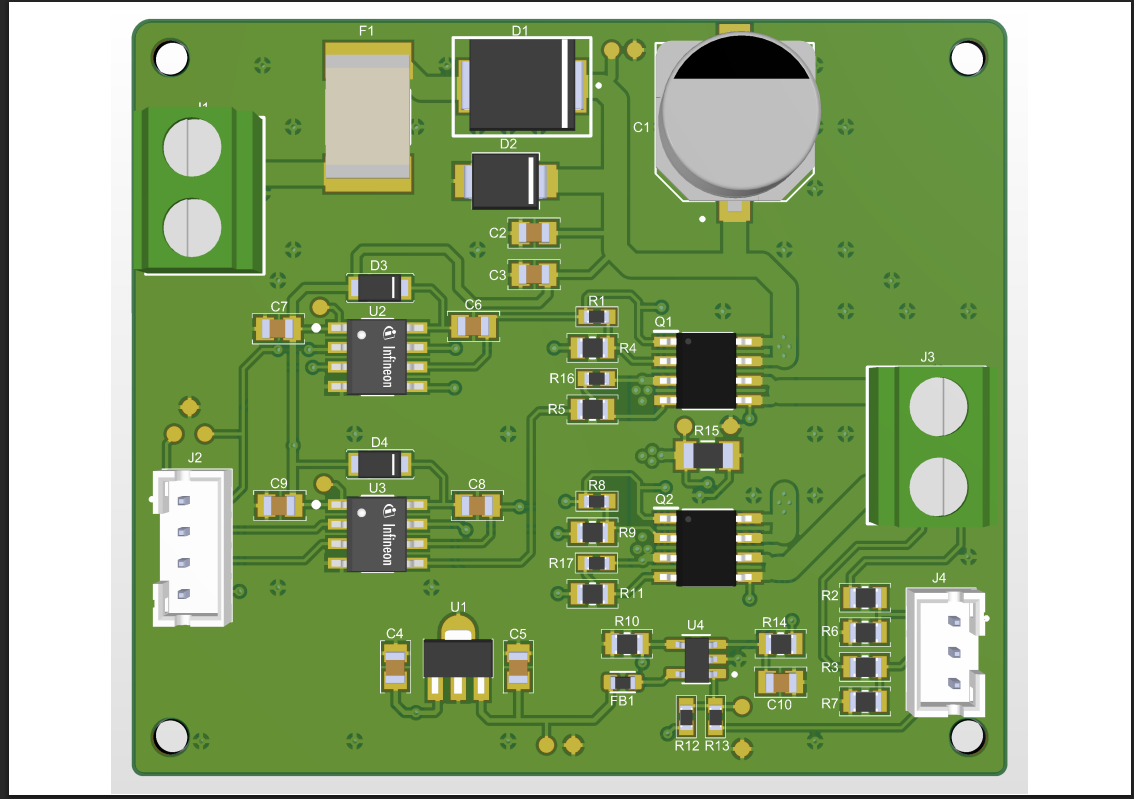
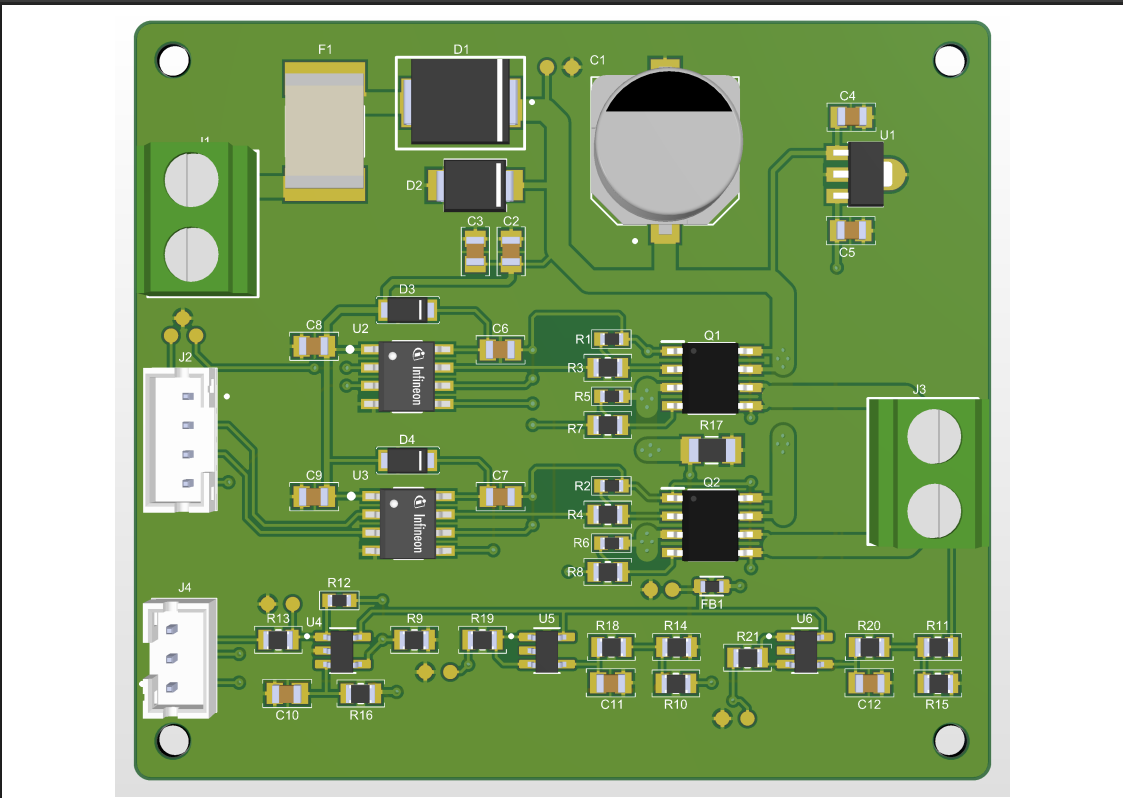
Revision
Motor control board revision

diff --git a/readme.md b/readme.md
@@ -2,7 +2,7 @@
 
 Bu sunum, **STM32F103C8T6 tabanlı otomatik tavuk kümesi kapısı kontrol sistemi** için hazırlanmış donanım tasarım dosyalarını içerir.
 
-Sistem; Li-ion pil paketi ile beslenen ana kontrol kartı ve bu karta bağlı ayrı bir motor kontrol kartından oluşur. Ana kontrol kartı; kapı konumunu limit switch ile takip eder, IR sensör ile varlık algılar, TFT ekran, panel LED'leri ve panel butonları üzerinden kullanıcı arayüzünü yönetir. Motor kontrol kartı ise ana karttan gelen PWM/yön kontrol sinyalleriyle 12 V DC motoru sürer ve motor akım/gerilim geri bildirimlerini ana karta gönderir.
+Sistem; Li-ion pil paketi ile beslenen ana kontrol kartı ve fırçalı DC motoru süren motor kontrol kartından oluşur. Ana kontrol kartı; kapı konumunu limit switch ile takip eder, IR sensör ile varlık algılar, TFT ekran, panel LED'leri ve panel butonları üzerinden kullanıcı arayüzünü yönetir. Motor kontrol kartı ise ana karttan gelen PWM/yön kontrol sinyalleriyle 12 V DC motoru sürer ve motor akım/gerilim geri bildirimlerini ana karta gönderir.
 
 > Bu sunum ağırlıklı olarak PCB donanım tasarım dosyalarını içerir. Firmware/yazılım geliştirmesi buraya dahil değildir.
 
@@ -22,7 +22,6 @@ Sistemde bulunan temel donanımlar:
 - **Harici 32.768 kHz LSE kristal**
 - **TFT ekran arayüzü**
 - **Motor PWM ve yön kontrol çıkışları**
-- **Automatic Door Motor Control Board arayüzü**
 - **12 V DC worm gear motor sürüş katı**
 - **Motor akım geri bildirimi**
 - **Motor gerilim geri bildirimi**
@@ -99,18 +98,50 @@ Desteklenen harici bağlantılar:
 
 ---
 
-## Automatic Door Motor Control Board
+### Motor Control Board 
 
-**Automatic Door Motor Control Board**, otomatik kapı mekanizmasında kullanılan **12 V DC worm gear motoru** sürmek için tasarlanmış ayrı bir güç ve motor sürücü kartıdır.
+Motor Control Board, 12 V fırçalı DC motorun çift yönlü ve PWM kontrollü sürülmesi için ana kontrol kartından ayrı bir güç kartı olarak tasarlanmıştır. Kart yaklaşık **60 mm x 53 mm** boyutundadır ve dört adet montaj deliğine sahiptir.
 
-Kart, ana kontrol kartından gelen PWM ve yön kontrol sinyallerini alır, motoru H-bridge yapısı üzerinden çift yönde sürer ve motorun akım/gerilim bilgilerini ana karta geri bildirir.
+Kartın temel bölümleri:
 
+- Girişte resetlenebilir PTC sigorta, seri Schottky diyot ve SMBJ15CA TVS koruması
+- 330 uF bulk kapasitör ile giriş filtreleme
+- İki adet IR2103 yarım-köprü gate driver
+- İki adet PJL9850 çift N-kanal MOSFET ile oluşturulan tam H-köprü
+- Motorun çift yönlü sürülmesi ve PWM ile hız kontrolü
+- 5 mOhm şönt direnç ve MCP6001 op-amp ile motor akım ölçümü
+- Motorun iki terminali için gerilim bölücü, RC filtre ve MCP6001 buffer devreleri
+- Ölçüm devreleri için filtrelenmiş 3.3 V analog besleme
+- Ana kontrol kartına üç analog geri bildirim çıkışı
 
-### Motor Control Board Schematic
+#### Motor Kontrol Sinyalleri
 
-Aşağıdaki şematik; güç ve sinyal girişleri, giriş koruma/filtreleme, IR2103 MOSFET driver devreleri, N-channel MOSFET H-bridge güç katı, 3.3 V lojik regülatör, motor akım algılama ve motor gerilim algılama bloklarını tek sayfada göstermektedir.
+| Sinyal | Açıklama |
+| --- | --- |
+| `Motor_PWM_A` | A yarım-köprüsü PWM kontrolü |
+| `Motor_PWM_B` | B yarım-köprüsü PWM kontrolü |
+| `Motor_INA` | A yarım-köprüsü yön/alt anahtar kontrolü |
+| `Motor_INB` | B yarım-köprüsü yön/alt anahtar kontrolü |
 
-![Motor Control Board Schematic](Images/Motor_Control_Board_Schematic.png)
+#### Ölçüm ve Geri Bildirim Sinyalleri
+
+| Sinyal | Açıklama |
+| --- | --- |
+| `MOTOR_CURRENT` | Şönt direnç üzerinden yükseltilmiş motor akım ölçümü |
+| `MOTOR_VREF_A` | Motorun A terminaline ait ölçeklendirilmiş gerilim |
+| `MOTOR_VREF_B` | Motorun B terminaline ait ölçeklendirilmiş gerilim |
+
+Bu geri bildirimler, yazılım tarafında motor akımının izlenmesi, sıkışma/stall durumunun belirlenmesi ve motor uç gerilimlerinden hareket bilgisinin değerlendirilmesi için kullanılacaktır.
+
+#### Motor Güç ve Sürücü Şematiği
+
+![Motor Control Board V2 Power and Driver Schematic](Images/Motor_Control_Board_Power_And_Driver_Schematic.png)
+
+#### Motor Ölçüm Şematiği
+
+![Motor Control Board V2 Motor Measure Schematic](Images/Motor_Control_Board_Motor_Measure_Schematic.png)
+
+---
 
 ### Motor Driver Topology
 
@@ -151,12 +182,16 @@ Bu geri bildirim aşağıdaki amaçlarla kullanılabilir:
 
 ### Motor Voltage Sensing
 
-Motorun iki terminali, gerilim bölücü devreleri üzerinden ayrı ayrı ölçülür. Bu sayede ana kart, motorun iki ucu arasındaki gerilimi hesaplayabilir.
+Motorun her iki terminali (`HB_A_SWITCH` ve `HB_B_SWITCH`) ayrı ayrı ölçülmektedir. Terminal gerilimleri, 75 kΩ / 15 kΩ gerilim bölücüler ile yaklaşık **1/6 oranında düşürülerek** `MOTOR_VSENSE_A` ve `MOTOR_VSENSE_B` sinyallerine dönüştürülür.
+
+Bu sinyaller, 1 kΩ direnç ve 47 nF kondansatörden oluşan giriş filtresinden geçirildikten sonra MCP6001 op-amp'ları tarafından gerilim takipçisi (unity-gain buffer) olarak tamponlanır. Böylece gerilim bölücü devresi ADC girişinden izole edilir ve ana karta daha kararlı, düşük empedanslı ölçüm sinyalleri iletilir.
 
 Motor gerilim geri bildirim sinyalleri:
 
-- `MOTOR_VSENSE_A`
-- `MOTOR_VSENSE_B`
+- `MOTOR_VREF_A`
+- `MOTOR_VREF_B`
+
+Ana kart, bu iki geri bildirim sinyali arasındaki farkı kullanarak motor uçları arasındaki gerçek gerilimi hesaplayabilir.
 
 Motor akım geri bildirim sinyali:
 
@@ -172,25 +207,14 @@ Motor kontrol kartı ana karta aşağıdaki sinyaller üzerinden bağlanır:
 | `Motor_INA` | Main Board → Motor Control Board | A yönü enable/direction kontrol sinyali |
 | `Motor_PWM_B` | Main Board → Motor Control Board | B yönü PWM kontrol sinyali |
 | `Motor_INB` | Main Board → Motor Control Board | B yönü enable/direction kontrol sinyali |
-| `MOTOR_VSENSE_A` | Motor Control Board → Main Board | Motor A terminali gerilim geri bildirimi |
-| `MOTOR_VSENSE_B` | Motor Control Board → Main Board | Motor B terminali gerilim geri bildirimi |
+| `MOTOR_VREF_A` | Motor Control Board → Main Board | Motor A terminali gerilim geri bildirimi |
+| `MOTOR_VREF_B` | Motor Control Board → Main Board | Motor B terminali gerilim geri bildirimi |
 | `MOTOR_CURRENT` | Motor Control Board → Main Board | Motor akım geri bildirimi |
 
-### Key Components
-
-| Blok | Kullanılan Eleman |
-|---|---|
-| MOSFET Driver | IR2103STRPBF half-bridge MOSFET driver |
-| Power MOSFET | PJL9850 N-channel MOSFET |
-| Current Sense Amplifier | MCP6001T-I/OT op-amp |
-| Input Fuse | FSMD200-24-2920-R resettable PTC fuse |
-| Reverse Protection | SS33-E3/57T Schottky diode |
-| TVS Protection | SMBJ15CA-TR TVS diode |
-| Logic Regulator | L78L33ABUTR 3.3 V LDO |
 
 ### PCB Design
 
-Motor kontrol kartı **2-layer PCB** olarak tasarlanmıştır. Kart üzerinde motor akımı taşıyan güç yolları geniş tutulmuş, GND dönüş yolu için polygon pour ve via stitching yapısı kullanılmıştır. Motor akımı, motor gerilimi ve sürücü kontrol sinyalleri ayrı izleme/geri bildirim hatları olarak ana karta taşınır.
+Motor kontrol kartı **2-layer PCB** olarak tasarlanmıştır. Kart üzerinde motor akımı taşıyan güç yolları geniş tutulmuş, GND dönüş yolu için polygon pour yapısı kullanılmıştır. Motor akımı, motor gerilimi ve sürücü kontrol sinyalleri ayrı izleme/geri bildirim hatları olarak ana karta taşınır.
 
 ---
 
@@ -221,23 +245,25 @@ Motor kontrol kartı **2-layer PCB** olarak tasarlanmıştır. Kart üzerinde mo
 │   ├── Power.SchDoc
 │   ├── MCU.SchDoc
 │   ├── External_Hardware.SchDoc
-│   ├── Chicken_Coop_Door_Motor_Control_Board.PrjPcb
-│   ├── Chicken_Coop_Door_Motor_Control_Board.PrjPcbStructure
-│   ├── Chicken_Coop_Door_Motor_Control_Board.PcbDoc
-│   └── Motor Control.SchDoc
+│   ├── Chicken_Coop_Door_Motor_Control_Board_V2.PrjPcb
+│   ├── Chicken_Coop_Door_Motor_Control_Board_V2.PrjPcbStructure
+│   ├── Chicken_Coop_Door_Motor_Control_Board_V2.PcbDoc
+│   └── Power_And_Driver.SchDoc
+│   └── Motor_Measure.SchDoc
 │
 ├── Images/
-│   ├── PowerSchematic.png
+│   ├── Power.png
 │   ├── MCU_Schematic.png
 │   ├── External_Hardware_Schematic.png
-│   ├── Motor_Control_Board_Schematic.png
+│   ├── Motor_Control_Board_Power_And_Driver_Schematic.png
+│   ├── Motor_Control_Board_Motor_Measure_Schematic.png
 │   ├── PCB_Top_View.png
 │   ├── PCB_Bottom_View.png
 │   ├── Motor_Control_Board_3D_Top.png
 │
 ├── Production/
 │   ├── Bill of Materials-Chicken_Coop_Door_Main_Board_V3.xlsx
-│   └── Bill of Materials-Chicken_Coop_Door_Motor_Control_Board.xlsx
+│   └── Bill of Materials-Chicken_Coop_Door_Motor_Control_Board_V2.xlsx
 │
 └── README.md
 ```
@@ -258,9 +284,10 @@ Sunumda bulunan temel Altium dosyaları:
 | `MCU.SchDoc` | Mikrodenetleyici devresi şematik dosyası |
 | `External_Hardware.SchDoc` | Harici donanım arayüzleri şematik dosyası |
 | `Chicken_Coop_Door_Main_Board_V3.PrjPcbStructure` | Ana kontrol kartı Altium proje yapı dosyası |
-| `Chicken_Coop_Door_Motor_Control_Board.PrjPcb` | Motor kontrol kartı Altium PCB proje dosyası |
-| `Chicken_Coop_Door_Motor_Control_Board.PcbDoc` | Motor kontrol kartı PCB layout dosyası |
-| `Motor Control.SchDoc` | Motor kontrol kartı şematik dosyası |
+| `Chicken_Coop_Door_Motor_Control_Board_V2.PrjPcb` | Motor kontrol kartı Altium PCB proje dosyası |
+| `Chicken_Coop_Door_Motor_Control_Board_V2.PcbDoc` | Motor kontrol kartı PCB layout dosyası |
+| `Power_And_Driver.SchDoc` | Motor kontrol kartı şematik dosyası |
+| `Motor_Measure.SchDoc` | Motor kontrol kartı şematik dosyası |
 
 ---
 
@@ -270,7 +297,7 @@ BOM dosyaları `Production` klasörü altında yer almaktadır:
 
 ```text
 Production/Bill of Materials-Chicken_Coop_Door_Main_Board_V3.xlsx
-Production/Bill of Materials-Chicken_Coop_Door_Motor_Control_Board.xlsx
+Production/Bill of Materials-Chicken_Coop_Door_Motor_Control_Board_v2.xlsx
 ```
 
 Bu dosyalar, projede kullanılan komponentleri, değerleri, üretici bilgilerini ve footprint bilgilerini içerir.